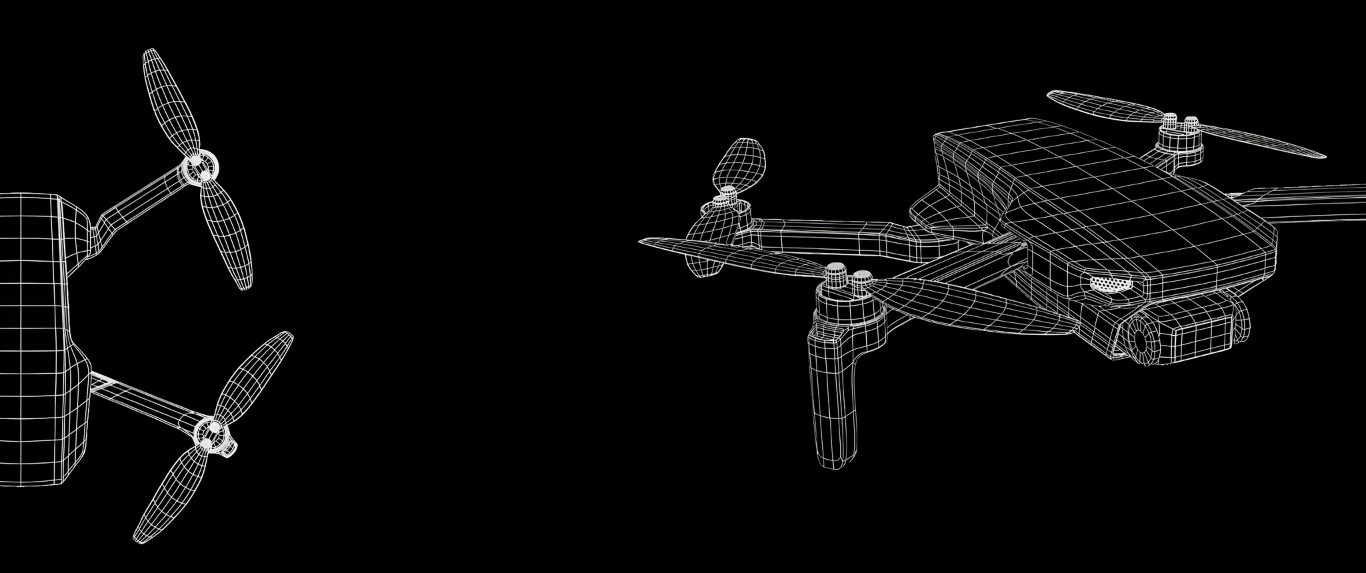
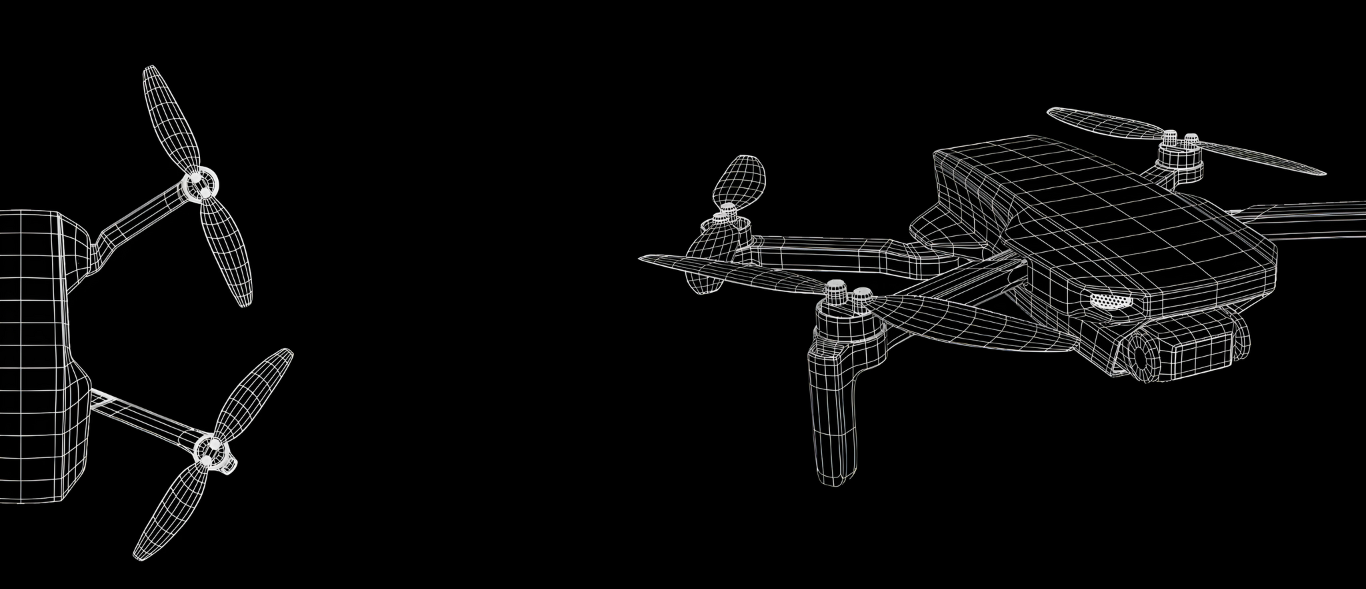
home v0.4

Changed region(s): [[0.4612, 0.1483, 1.0, 0.8307], [0.0, 0.089, 0.2152, 0.9494]]

diff --git a/index.html b/index.html
@@ -66,25 +66,23 @@
                         <a href="https://www.instagram.com/aroha.cusat"><i class="fa fa-instagram fa-xl"></i></a>
                         <a href="https://www.linkedin.com/company/arohacusat/"><i class="fa fa-linkedin fa-xl"> </i></a>
                      </div>
-                     
+
                 </div>
             </div>
         </section>
-        <section class="bg-black text-white" id="home-section" >
+        <section class="bg-black text-white parallax-section" id="home-section" >
             <div class="container-fluid">
-                <div class="row d-flex justify-content-center align-items-center flex-wrap" style="background-image: url(media/Home.png);  height: 40rem; background-repeat: no-repeat; background-size: cover; ">
-                    <div class="mask gradient-custom h-100 m-0">
-                        <div class="dflex col-md-6 p-4 pt-5 mt-5 mx-auto">
-                            <p class="sawarabi-gothic-regular brand-name">AROHA<br></p>
-                            <p class="wel-text ">Building<br></p>
-                            <p class="wel-text dotgothic16-regular fw-bolder text-warning ">Ste<span style="letter-spacing: -9px;">alt</span>hy<br></p>                              
-                            <p class="wel-text">Stalkers<br></p>
-                        </div>
-                    </div>
+                <div class="row d-flex justify-content-center align-items-center flex-wrap ">
+                    <div class="dflex col-md-6 p-4 pt-5 mt-5 mx-auto">
+                        <p class="sawarabi-gothic-regular brand-name">AROHA<br></p>
+                        <p class="wel-text ">Building<br></p>
+                        <p class="wel-text dotgothic16-regular fw-bolder text-warning ">Ste<span style="letter-spacing: -9px;">alt</span>hy<br></p>                              
+                        <p class="wel-text">Stalkers<br></p>
+                    </div>                    
                 </div>
             </div>
         </section>
-        <section id="about-section"  style="min-height: 620px;">
+        <section id="about-section" >
             <div class="container-fluid mt-5 pt-5">
                 <div class="row text-white d-flex align-items-center" >
                     <div class="col-md-5 px-5 about-title">

diff --git a/style.css b/style.css
@@ -1,7 +1,7 @@
 html
 {
     scroll-behavior: smooth;
-    scroll-padding-top: 0;
+    scroll-padding-top: 1.5rem;
     scrollbar-width: none;
 }
 .brand-icon
@@ -85,15 +85,9 @@ html
     margin-left: 2rem;
     margin-right: 2rem;
 }
-.navbar {
-    position: fixed; /* Make it stick/fixed */
-    top: 0; /* Stay on top */
-    width: 100%; /* Full width */
-    transition: top 0.3s; /* Transition effect when sliding down (and up) */
-}
 .sticky-icon  
 {
-    z-index:1;
+    z-index:2;
     position:fixed;
     bottom:3%;
     width: fit-content;
@@ -118,4 +112,26 @@ html
     border: 1px solid rgb(77, 77, 77);
 	margin-right:20px;
 	transition:all 0.5s;
+}
+.parallax-section {
+    background: no-repeat fixed;
+    background-image: url(media/Home.png);
+    height: 600px;
+    background-size: cover;
+    position: relative;
+    z-index: 1;
+}
+.parallax-section::after {
+    content: '';
+    position: absolute;
+    top: 0;
+    left: 0;
+    width: 100%;
+    height: 100%;
+    background: linear-gradient(
+        0deg,
+        rgb(0, 0, 0),
+        rgba(0, 0, 0, 0.501) 100%
+    );
+    z-index: -1;
 }
